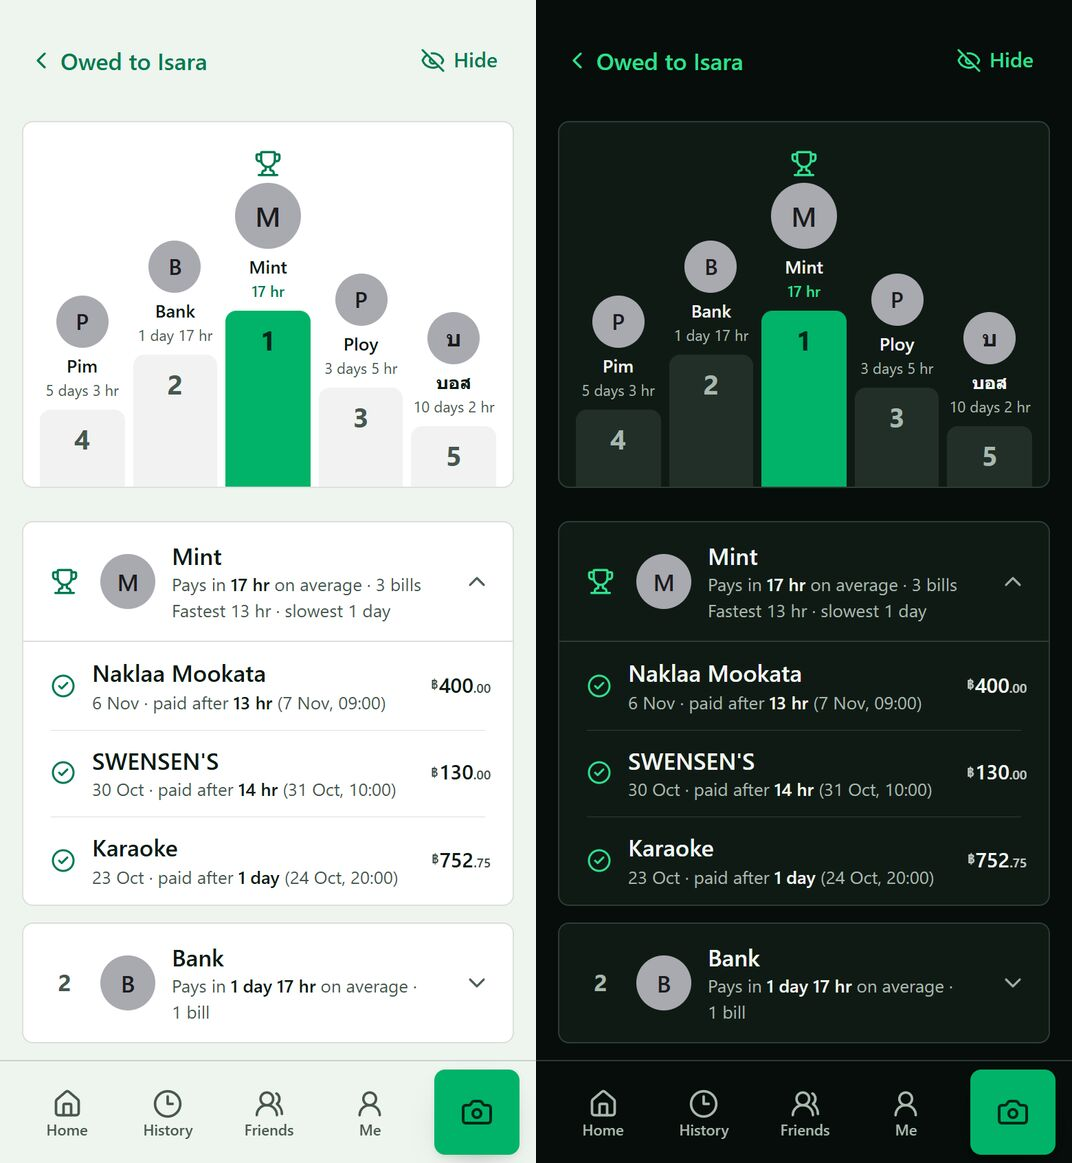
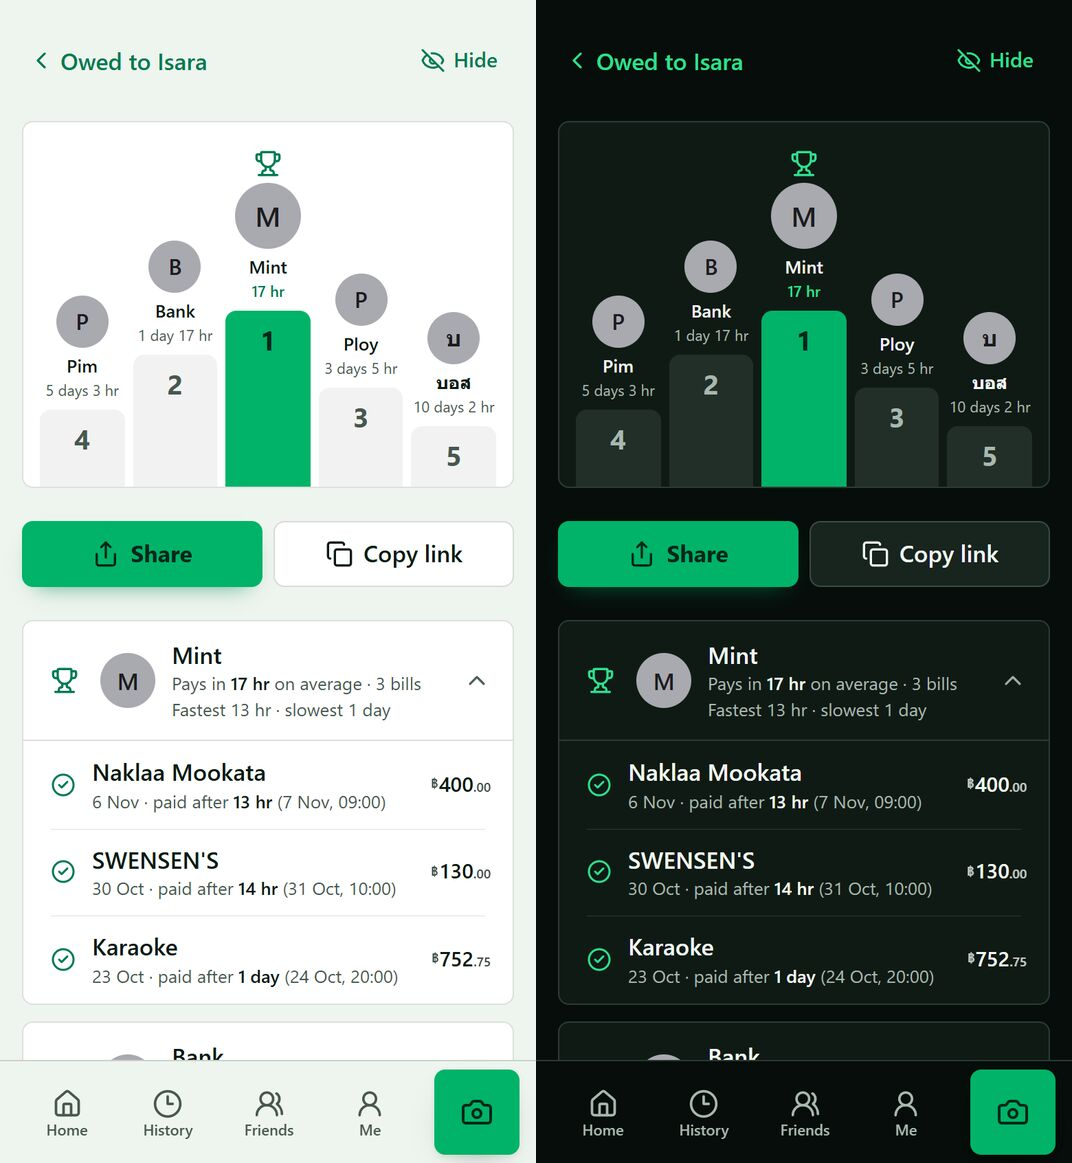
Who pays fastest: Share and Copy link (#26)
* Who pays fastest: Share and Copy link under the podium

The same buttons as the shared list, for the page's own link; a chat
shows its podium preview.

* README: Who pays fastest can be shared; screenshot with Share and Copy link

---------

diff --git a/src/app/o/[id]/fastest/page.tsx b/src/app/o/[id]/fastest/page.tsx
@@ -4,6 +4,7 @@ import Link from "next/link";
 import { notFound } from "next/navigation";
 import { cache } from "react";
 import { FastestHide } from "@/components/FastestHide";
+import { FastestShare } from "@/components/FastestShare";
 import { BillHeader } from "@/components/Poster";
 import { Avatar, ICON, Money } from "@/components/ui";
 import { langOf } from "@/lib/lang";
@@ -75,7 +76,10 @@ export default async function FastestPage({ params }: PageProps<"/o/[id]/fastest
       {n === 0 ? (
         <p className="card p-8 text-center text-ink-2">Once friends are ticked paid, they&apos;re ranked here.</p>
       ) : (
-        <Podium top={b.times.slice(0, 5)} />
+        <>
+          <Podium top={b.times.slice(0, 5)} />
+          <FastestShare id={id} organiser={b.organiser.name} />
+        </>
       )}
 
       {n > 0 && (

diff --git a/src/components/FastestShare.tsx b/src/components/FastestShare.tsx
@@ -1,0 +1,11 @@
+"use client";
+
+import { useBrowserValue } from "@/lib/client/hooks";
+import { ShareButtons } from "./ShareButtons";
+
+/** Share / Copy link for "Who pays fastest" (its link preview shows the podium). */
+export function FastestShare({ id, organiser }: { id: string; organiser: string }) {
+  const url = `${useBrowserValue(() => window.location.origin, "")}/o/${id}/fastest`;
+  const title = `Who pays ${organiser} fastest`;
+  return <ShareButtons url={url} title={title} text={`${title}: the top five, and how fast everyone pays`} />;
+}

diff --git a/README.md b/README.md
@@ -51,7 +51,7 @@ The link preview friends see in chat:
 **History and the phone**
 - **History**, newest bill date first, with big bills holding their bills; tap a person to see their splits and what they owe you (or you owe them). Tap yourself to see what you spent.
 - **Owed to you:** every friend who still owes you, with their total, their unpaid bills and how long they've waited ("for 16 days", amber after a week). Tick a bill paid (in full or part) right there, or **Mark all paid** for a friend.
-- **Who pays fastest:** its own page (History → Who pays fastest, or from "Owed to you" and the shared list), with the top five on a podium, on the page and on its link preview. Friends are ranked by how long they take to pay, in days, hours and minutes from when the bill was made; a bill they haven't paid counts the time so far, so not paying moves them down. Tap a friend for their average, fastest and slowest payment and every bill: when it was paid and how long it took, or how long it has waited. Ties go A–Z, and it's the same page for you and for anyone with the list. **Hide** (only on your phone) leaves chosen friends out, or stops chosen bills counting (say, one you ticked long after it was paid), in the ranking, the podium and the preview, for everyone.
+- **Who pays fastest:** its own page (History → Who pays fastest, or from "Owed to you" and the shared list), with the top five on a podium, on the page and on its link preview. Friends are ranked by how long they take to pay, in days, hours and minutes from when the bill was made; a bill they haven't paid counts the time so far, so not paying moves them down. Tap a friend for their average, fastest and slowest payment and every bill: when it was paid and how long it took, or how long it has waited. Ties go A–Z, and it's the same page for you and for anyone with the list. **Share** or **Copy link** sends the page (its preview shows the podium). **Hide** (only on your phone) leaves chosen friends out, or stops chosen bills counting (say, one you ticked long after it was paid), in the ranking, the podium and the preview, for everyone.
 - **What I owe:** on a friend's phone, everything they still owe, grouped by who they pay (to the organiser, or to each payer): the bills they've opened, plus the same organisers' other bills they still owe on, also ones whose link they never got. **Pay** lets them tick which bills to pay (or all), with one QR for that total, and one slip pays the ticked bills, oldest first ("Already paid?" at the top uploads a slip straight away). They pick their name once from everyone who still owes in those friends' bills; picking themselves to pay or upload a slip also tells the app.
 - **Who still owes (shareable list):** one link (`/o/…`, with its own preview card) showing everyone who still owes you, A–Z, with all their unpaid bills, how long each has gone unpaid ("Unpaid for 16 days", "9 days ago") and a link to **Who pays fastest**; each person can **Pay** (one QR for their total) or upload a slip there. Copy or share it from "Owed to you".
 - **Friends** page: tap a friend to see their splits. Renaming a friend (or yourself) updates every bill you've shared, old ones too (friends typed into older bills are found by name).
@@ -61,7 +61,7 @@ The link preview friends see in chat:
 <p>
   <img src="docs/screenshots/history.jpg" alt="History, with Owed to you, What I owe and Who pays fastest at the top, light and dark" width="380">
   <img src="docs/screenshots/owed.jpg" alt="Owed to you, with a link to share the list, light and dark" width="380">
-  <img src="docs/screenshots/pays-fastest.jpg" alt="Who pays fastest: the top five on a podium, Hide, and each friend's bills with how long they took to pay, light and dark" width="380">
+  <img src="docs/screenshots/pays-fastest.jpg" alt="Who pays fastest: the top five on a podium with Share and Copy link, Hide, and each friend's bills with how long they took to pay, light and dark" width="380">
   <img src="docs/screenshots/owe.jpg" alt="What I owe on a friend's phone, light and dark" width="380">
   <img src="docs/screenshots/list.jpg" alt="The shareable who still owes list, with how long each person hasn't paid, light and dark" width="380">
 </p>
